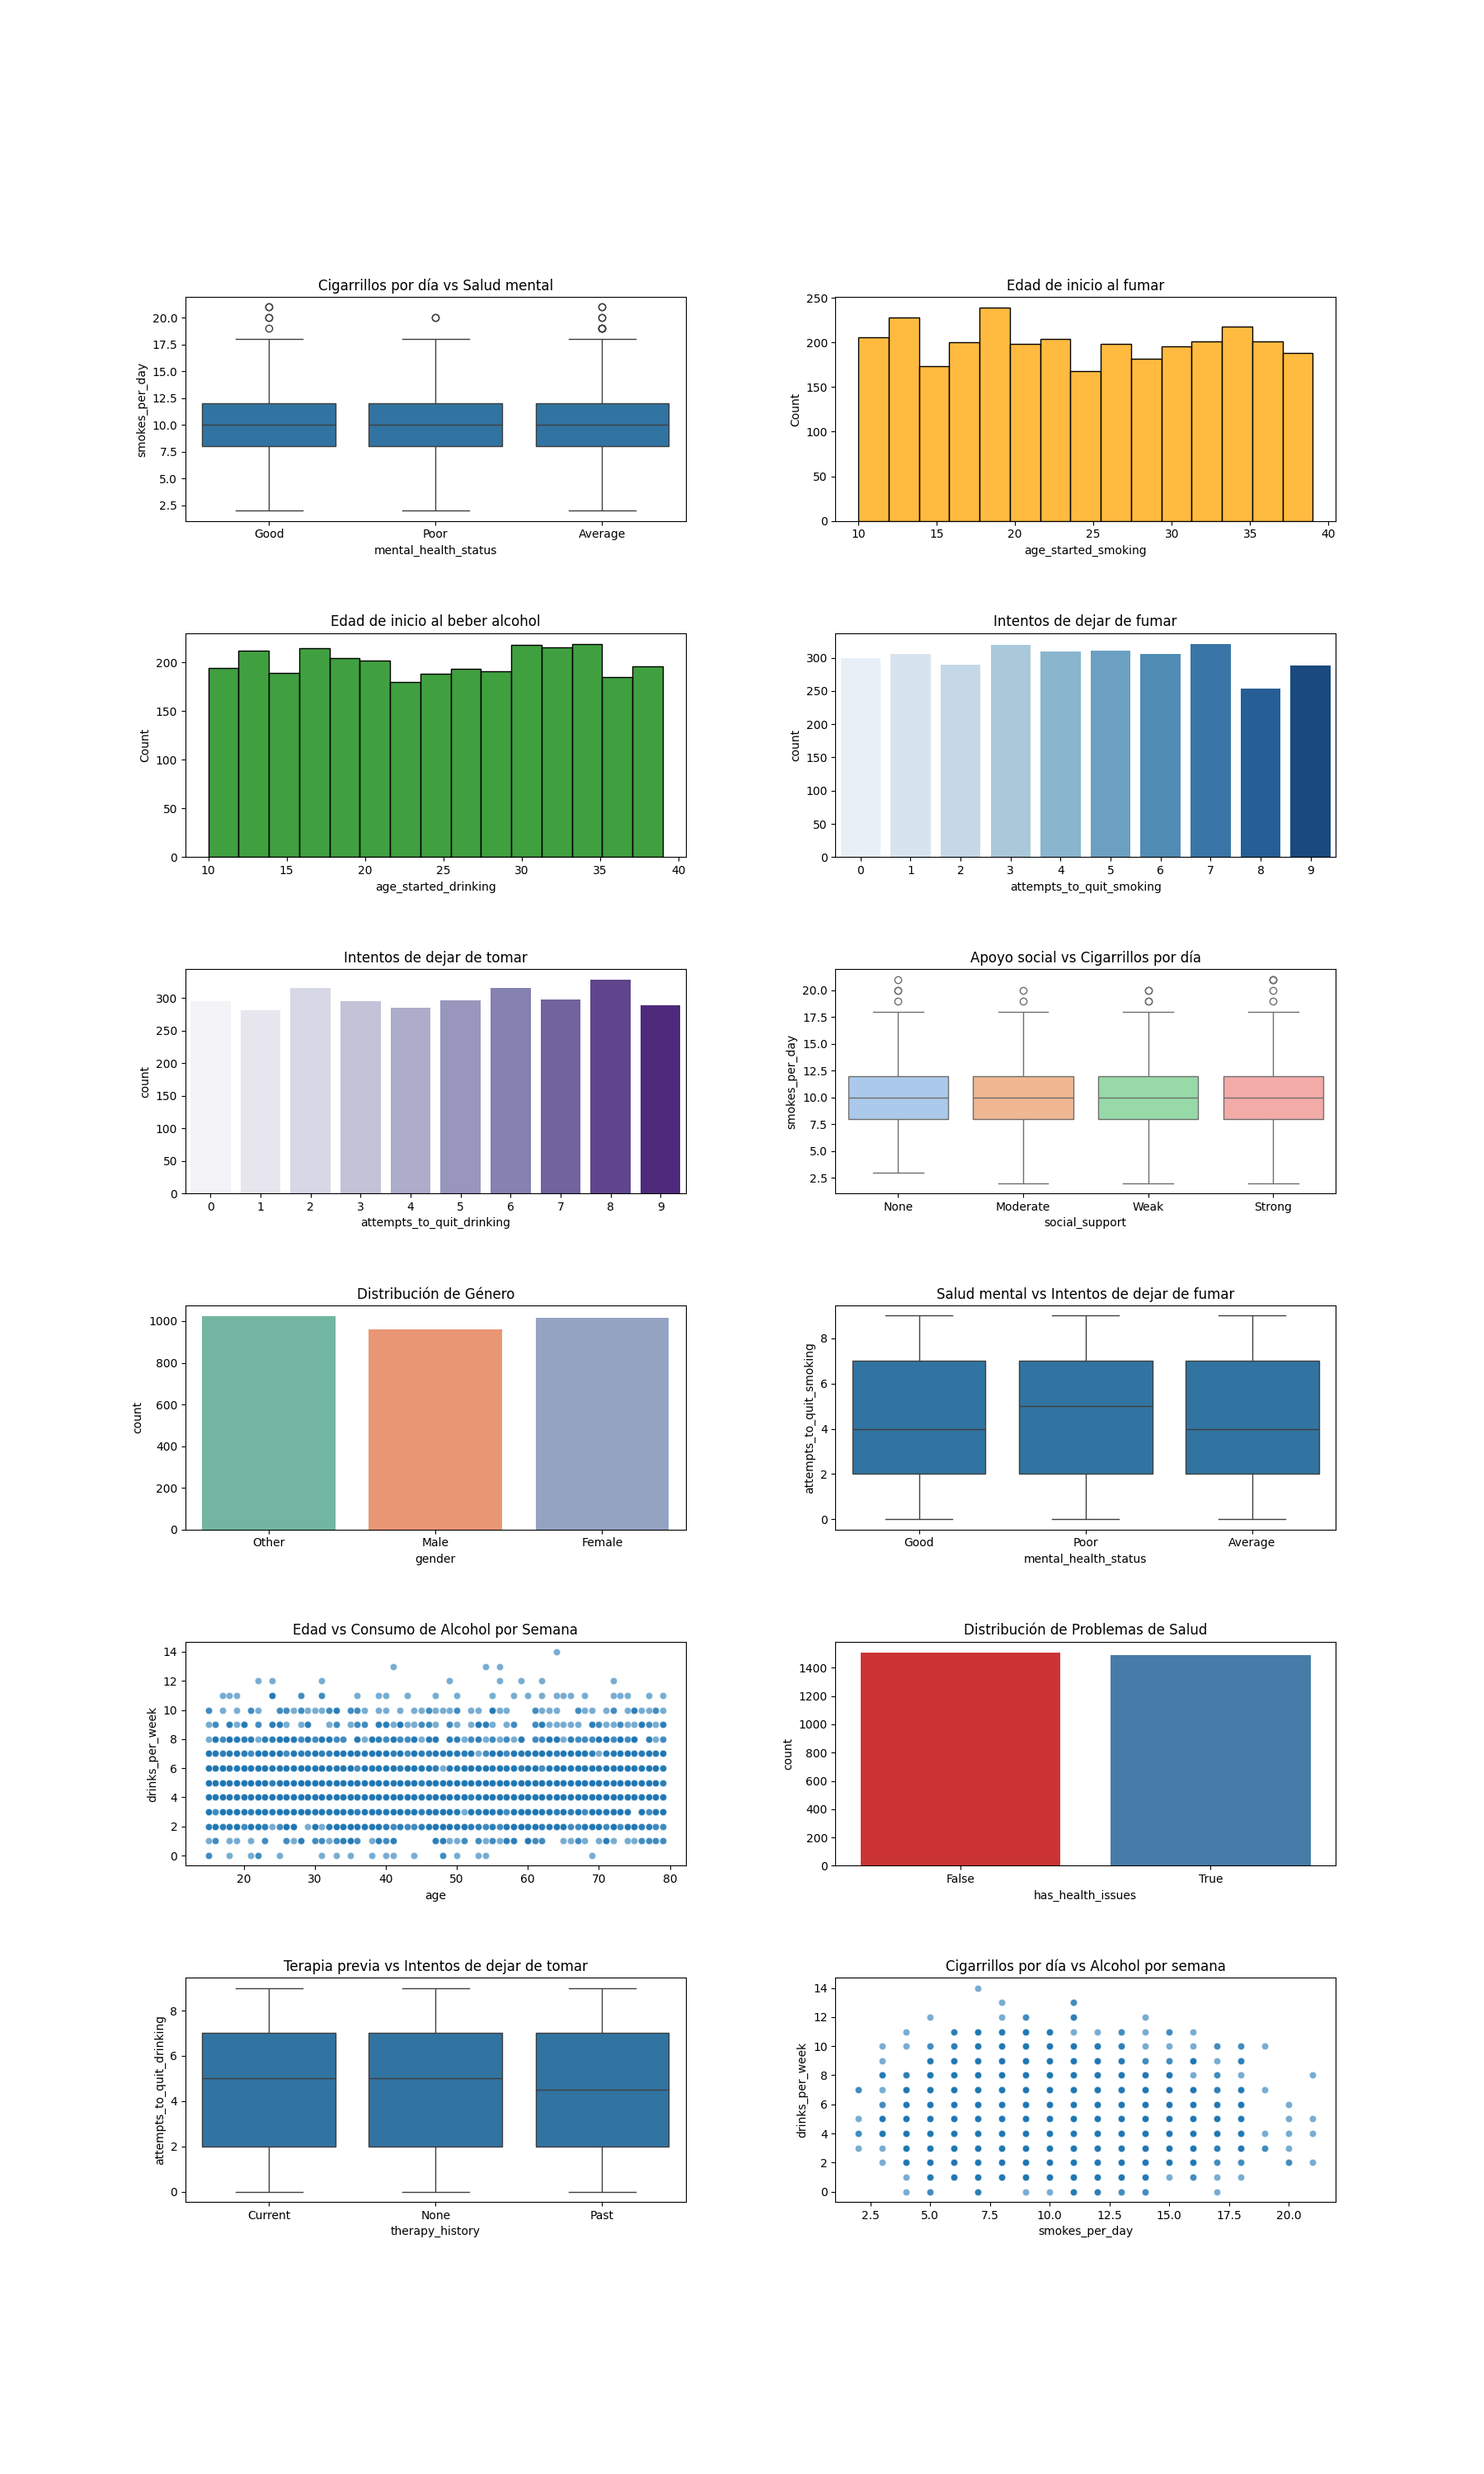
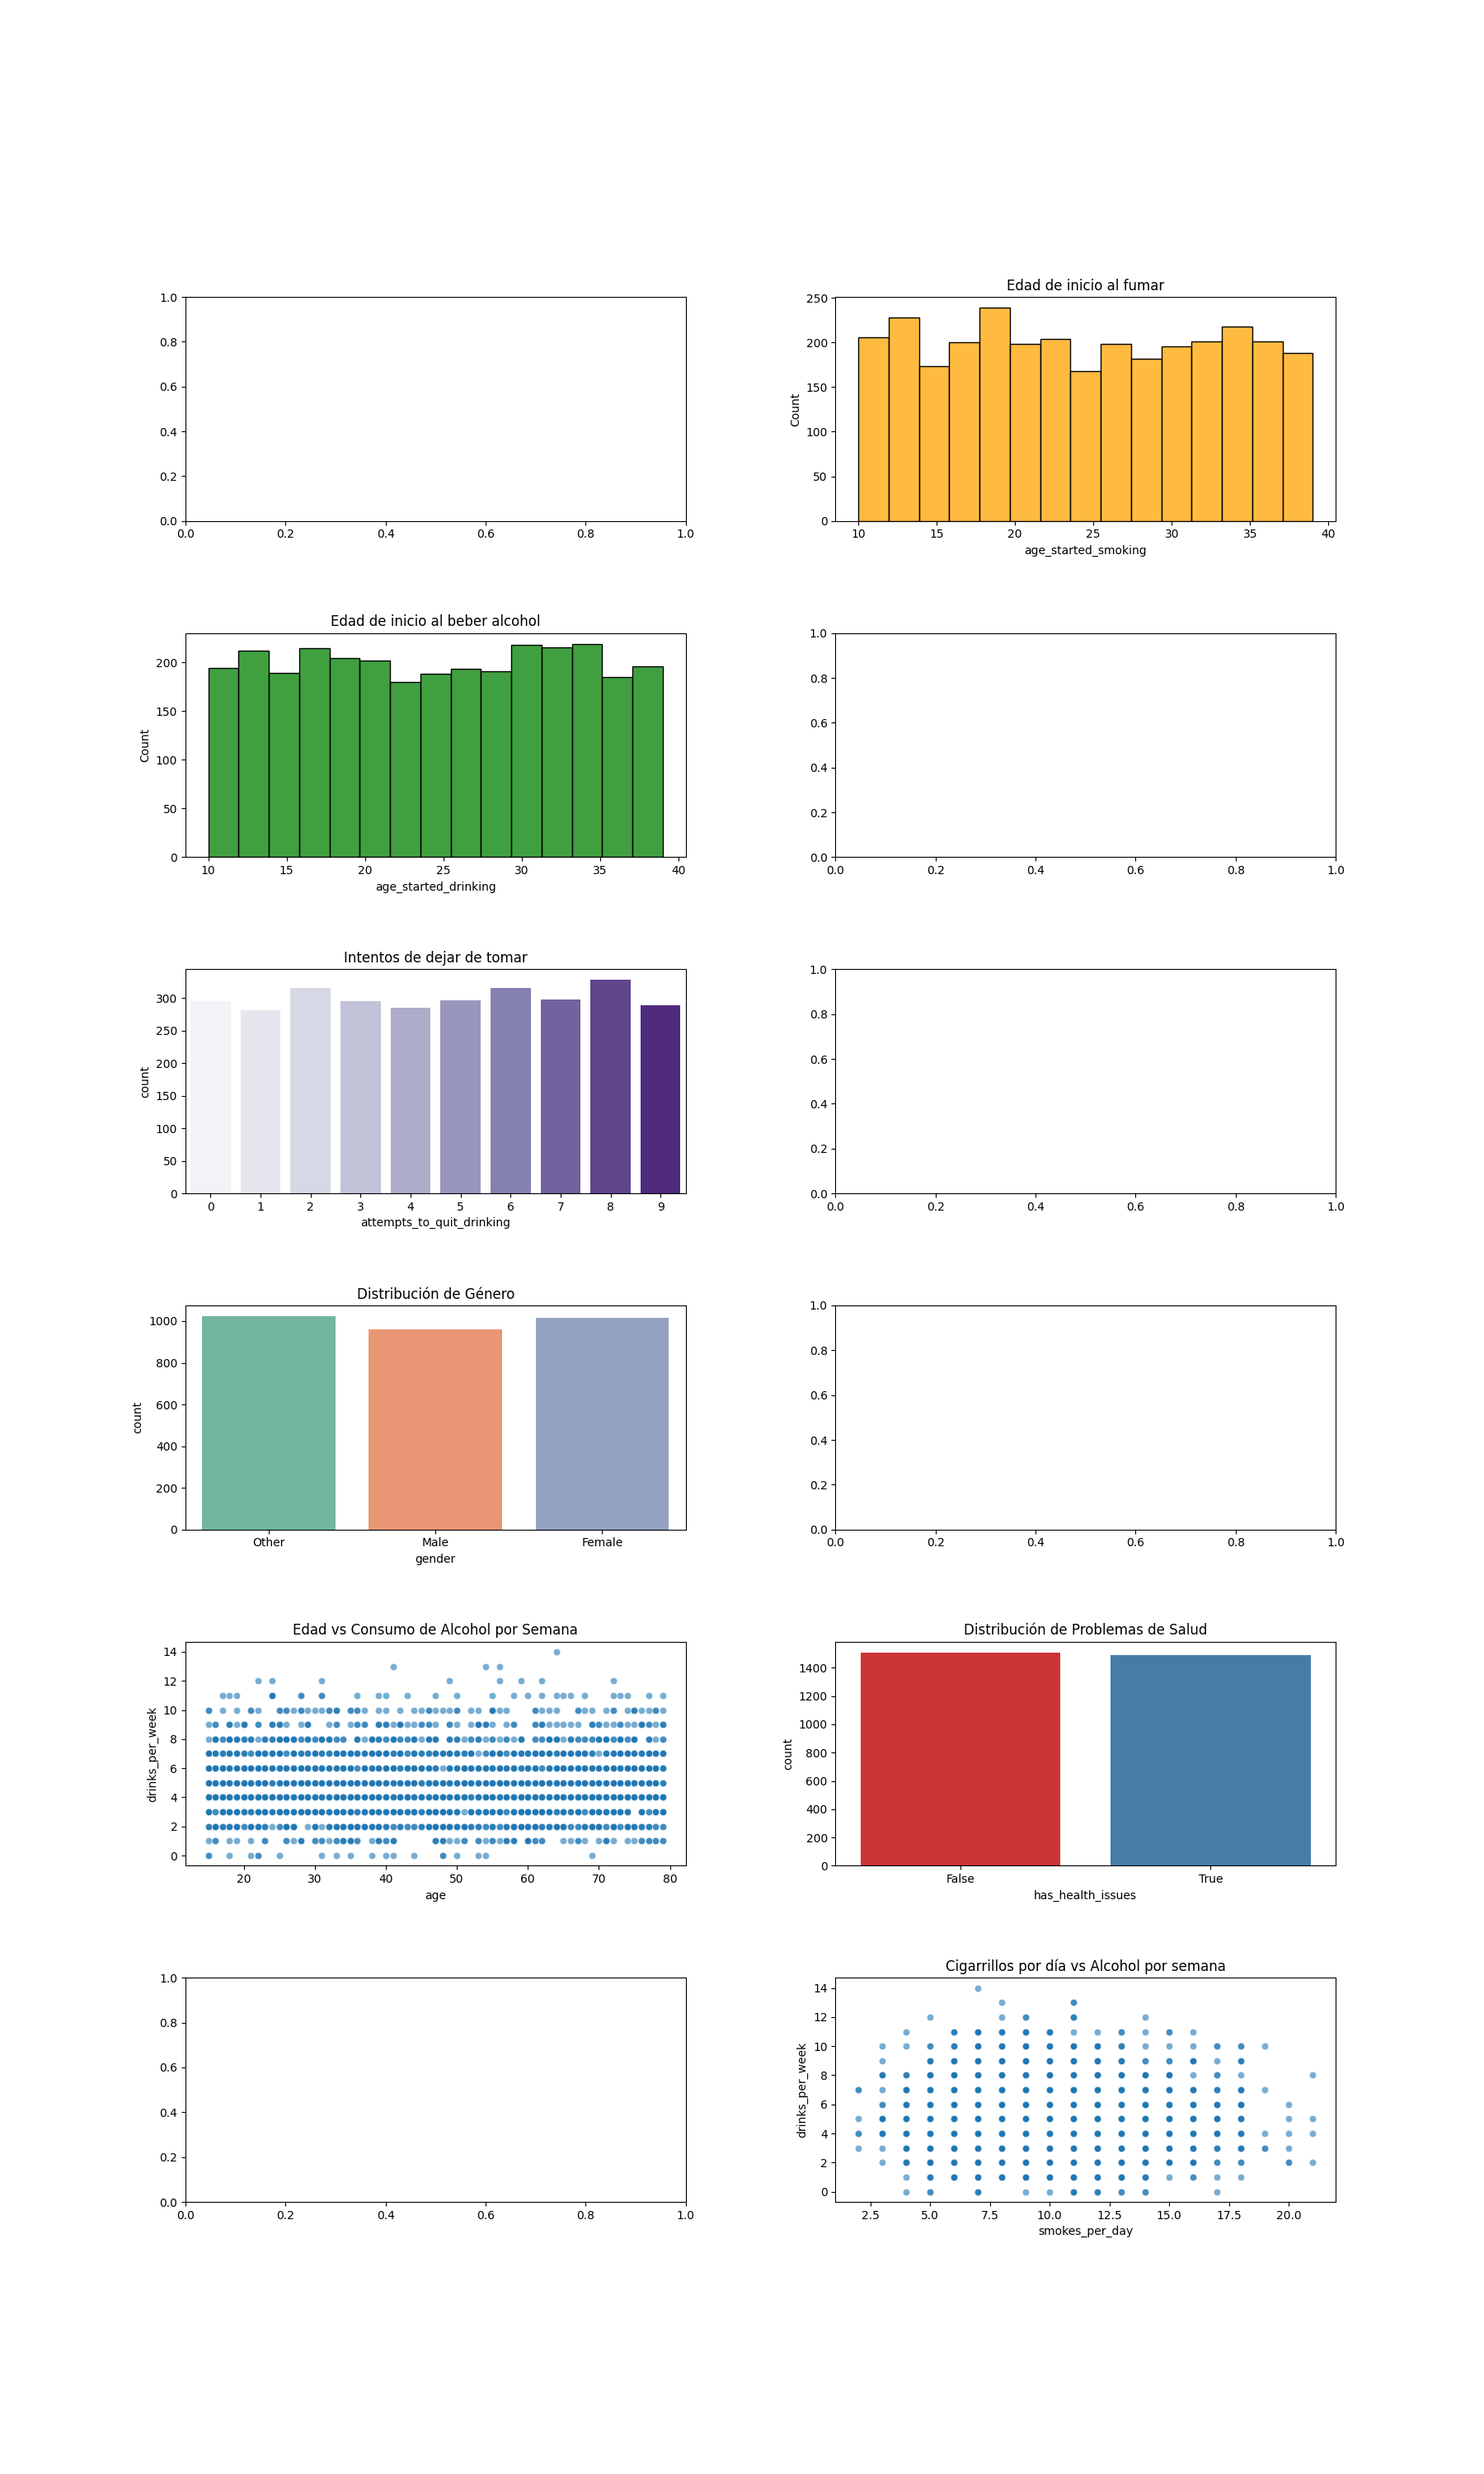
Eliminacion de graficos inecesarios

diff --git a/app.py b/app.py
@@ -116,51 +116,31 @@ def graficos():
     fig, axes = plt.subplots(6, 2, figsize=(18, 30))
     plt.subplots_adjust(hspace=0.5, wspace=0.3)
 
-    # 1. Cigarrillos por día vs Salud mental
-    sns.boxplot(x='mental_health_status', y='smokes_per_day', data=df, ax=axes[0, 0])
-    axes[0, 0].set_title('Cigarrillos por día vs Salud mental')
-
-    # 2. Edad de inicio al fumar
+    # 1. Edad de inicio al fumar
     sns.histplot(df['age_started_smoking'].dropna(), bins=15, ax=axes[0, 1], color='orange')
     axes[0, 1].set_title('Edad de inicio al fumar')
 
-    # 3. Edad de inicio al beber alcohol
+    # 2. Edad de inicio al beber alcohol
     sns.histplot(df['age_started_drinking'].dropna(), bins=15, ax=axes[1, 0], color='green')
     axes[1, 0].set_title('Edad de inicio al beber alcohol')
 
-    # 4. Intentos de dejar de fumar
-    sns.countplot(x='attempts_to_quit_smoking', data=df, ax=axes[1, 1], palette='Blues')
-    axes[1, 1].set_title('Intentos de dejar de fumar')
-
-    # 5. Intentos de dejar de tomar
+    # 3. Intentos de dejar de tomar
     sns.countplot(x='attempts_to_quit_drinking', data=df, ax=axes[2, 0], palette='Purples')
     axes[2, 0].set_title('Intentos de dejar de tomar')
 
-    # 6. Apoyo social vs Cigarrillos por día
-    sns.boxplot(x='social_support', y='smokes_per_day', data=df, ax=axes[2, 1], palette ="pastel")
-    axes[2, 1].set_title('Apoyo social vs Cigarrillos por día')
-
-    # 7. Distribución de género
+    # 4. Distribución de género
     sns.countplot(x='gender', data=df, ax=axes[3, 0], palette='Set2')
     axes[3, 0].set_title('Distribución de Género')
 
-    # 8. Salud mental vs Intentos de dejar de fumar
-    sns.boxplot(x='mental_health_status', y='attempts_to_quit_smoking', data=df, ax=axes[3, 1])
-    axes[3, 1].set_title('Salud mental vs Intentos de dejar de fumar')
-
-    # 9. Relación entre edad y consumo de alcohol
+    # 5. Relación entre edad y consumo de alcohol
     sns.scatterplot(x='age', y='drinks_per_week', data=df, ax=axes[4, 0], alpha=0.6)
     axes[4, 0].set_title('Edad vs Consumo de Alcohol por Semana')
 
-    # 10. Distribución de personas con problemas de salud
+    # 6. Distribución de personas con problemas de salud
     sns.countplot(x='has_health_issues', data=df, ax=axes[4, 1], palette='Set1')
     axes[4, 1].set_title('Distribución de Problemas de Salud')
 
-    # 11. Terapia previa vs Intentos de dejar de tomar
-    sns.boxplot(x='therapy_history', y='attempts_to_quit_drinking', data=df, ax=axes[5, 0])
-    axes[5, 0].set_title('Terapia previa vs Intentos de dejar de tomar')
-
-    # 12. Relación entre cigarrillos y alcohol
+    # 7. Relación entre cigarrillos y alcohol
     sns.scatterplot(x='smokes_per_day', y='drinks_per_week', data=df, ax=axes[5, 1], alpha=0.6)
     axes[5, 1].set_title('Cigarrillos por día vs Alcohol por semana')
 
@@ -213,12 +193,6 @@ def analisis_de_datos():
     )
     axes[1, 0].set_title('Intentos de dejar de fumar según Apoyo Social')
     axes[1, 0].tick_params(axis='x', rotation=30)
-
-    # 4. Heatmap de correlación entre variables numéricas
-    corr = df[['age', 'smokes_per_day', 'drinks_per_week', 'age_started_smoking', 'age_started_drinking',
-               'attempts_to_quit_smoking', 'attempts_to_quit_drinking']].corr()
-    sns.heatmap(corr, annot=True, cmap='coolwarm', ax=axes[1, 1])
-    axes[1, 1].set_title('Correlación entre variables numéricas')
 
     plt.tight_layout()
     plt.savefig('plots/analisis.png')
